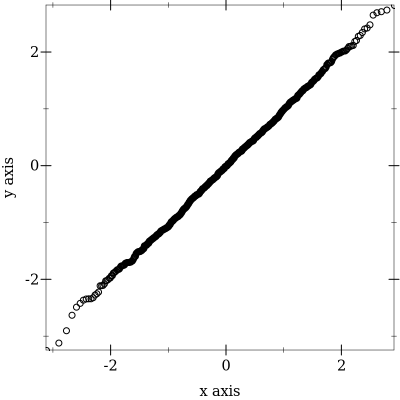
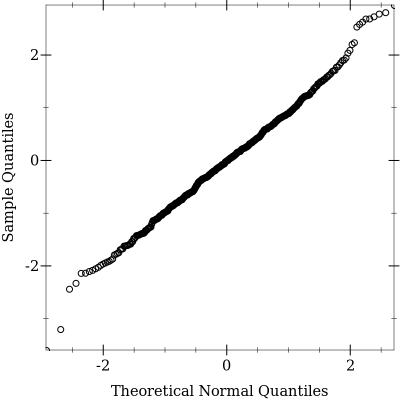
Q-Q figures updated to correct axis labels

diff --git a/README.md b/README.md
@@ -182,7 +182,7 @@ Examples:
 			   [point-color "blue"])
   (plot (list (qq-plot* (sample (gamma-dist 2 2) 500))
               (function identity #:color "red" #:width 2))
-        #:x-label "Theoretical Quantiles (n = 500)"
+        #:x-label "Theoretical Quantiles"
         #:y-label "Sample Quantiles (n = 500)"))
 ```
 
